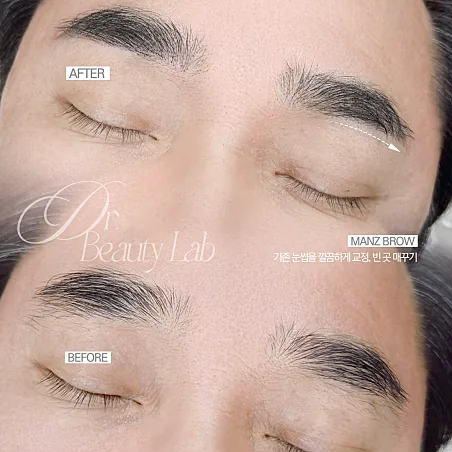
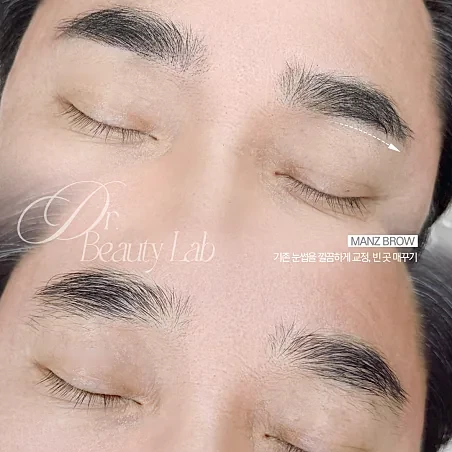
눈썹 전후 사진 통일: 새 남성 사진에 공식 DBL 로고 적용·BEFORE/AFTER 표기 제거, 06번 사진 표기 제거
Claude-Session: https://claude.ai/code/session_01GiNsgprQ5Ba6ws2qEsCy3w

Changed region(s): [[0.1239, 0.1239, 0.2478, 0.1858], [0.1239, 0.7743, 0.2478, 0.8053]]

diff --git a/ja/brow/index.html b/ja/brow/index.html
@@ -435,7 +435,7 @@ body,.wrap *{word-break:normal;line-break:strict;overflow-wrap:anywhere}
   <section>
     <p class="lbl">RESULT</p>
     <h2>言葉より伝わる<br>実際の施術例</h2>
-    <div class="slider"><figure class="slide"><img src="/assets/brow-result-01.webp" alt="女性 · 毛並み眉 施術前後" loading="lazy"><span>女性 · 毛並み眉 施術前後</span></figure><figure class="slide"><img src="/assets/brow-result-02.webp" alt="毛並み眉 · 施術後" loading="lazy"><span>毛並み眉 · 施術後</span></figure><figure class="slide"><img src="/assets/brow-result-03.webp" alt="毛並み眉 · 毛並みのクローズアップ" loading="lazy"><span>毛並み眉 · 毛並みのクローズアップ</span></figure><figure class="slide"><img src="/assets/brow-result-04.webp" alt="毛並み眉 · 施術後クローズアップ" loading="lazy"><span>毛並み眉 · 施術後クローズアップ</span></figure><figure class="slide"><img src="/assets/brow-result-05.webp" alt="男性 · 眉 施術前後" loading="lazy"><span>男性 · 眉 施術前後</span></figure><figure class="slide"><img src="/assets/brow-result-06.webp" alt="男性 · 既存の眉の修正 + すき間の補正" loading="lazy"><span>男性 · 既存の眉の修正 + すき間の補正</span></figure><figure class="slide"><img src="/assets/brow-result-07.webp?v=2" alt="男性 · 眉 施術前後" loading="lazy"><span>男性 · 眉 施術前後</span></figure></div>
+    <div class="slider"><figure class="slide"><img src="/assets/brow-result-01.webp" alt="女性 · 毛並み眉 施術前後" loading="lazy"><span>女性 · 毛並み眉 施術前後</span></figure><figure class="slide"><img src="/assets/brow-result-02.webp" alt="毛並み眉 · 施術後" loading="lazy"><span>毛並み眉 · 施術後</span></figure><figure class="slide"><img src="/assets/brow-result-03.webp" alt="毛並み眉 · 毛並みのクローズアップ" loading="lazy"><span>毛並み眉 · 毛並みのクローズアップ</span></figure><figure class="slide"><img src="/assets/brow-result-04.webp" alt="毛並み眉 · 施術後クローズアップ" loading="lazy"><span>毛並み眉 · 施術後クローズアップ</span></figure><figure class="slide"><img src="/assets/brow-result-05.webp" alt="男性 · 眉 施術前後" loading="lazy"><span>男性 · 眉 施術前後</span></figure><figure class="slide"><img src="/assets/brow-result-06.webp?v=2" alt="男性 · 既存の眉の修正 + すき間の補正" loading="lazy"><span>男性 · 既存の眉の修正 + すき間の補正</span></figure><figure class="slide"><img src="/assets/brow-result-07.webp?v=3" alt="男性 · 眉 施術前後" loading="lazy"><span>男性 · 眉 施術前後</span></figure></div>
     <p class="hint">← スワイプしてご覧ください · 実際の施術例</p>
     <p class="sm" style="margin-top:16px">* 仕上がりと持続期間は、肌質や毛の状態、生活習慣により個人差があります。</p>
   </section>

diff --git a/brow/index.html b/brow/index.html
@@ -425,7 +425,7 @@ details .a{padding:0 0 16px;font-size:13.5px;color:var(--ink-soft);line-height:1
   <section>
     <p class="lbl">RESULT</p>
     <h2>말보다 빠른<br>실제 시술 사례</h2>
-    <div class="slider"><figure class="slide"><img src="/assets/brow-result-01.webp" alt="여성 · 결 브로우 시술 전후" loading="lazy"><span>여성 · 결 브로우 시술 전후</span></figure><figure class="slide"><img src="/assets/brow-result-02.webp" alt="결 브로우 · 시술 후" loading="lazy"><span>결 브로우 · 시술 후</span></figure><figure class="slide"><img src="/assets/brow-result-03.webp" alt="결 브로우 · 결 클로즈업" loading="lazy"><span>결 브로우 · 결 클로즈업</span></figure><figure class="slide"><img src="/assets/brow-result-04.webp" alt="결 브로우 · 시술 후 클로즈업" loading="lazy"><span>결 브로우 · 시술 후 클로즈업</span></figure><figure class="slide"><img src="/assets/brow-result-05.webp" alt="남성 · 눈썹 시술 전후" loading="lazy"><span>남성 · 눈썹 시술 전후</span></figure><figure class="slide"><img src="/assets/brow-result-06.webp" alt="남성 · 기존 눈썹 교정 + 빈 곳 채우기" loading="lazy"><span>남성 · 기존 눈썹 교정 + 빈 곳 채우기</span></figure><figure class="slide"><img src="/assets/brow-result-07.webp?v=2" alt="남성 · 눈썹 시술 전후" loading="lazy"><span>남성 · 눈썹 시술 전후</span></figure></div>
+    <div class="slider"><figure class="slide"><img src="/assets/brow-result-01.webp" alt="여성 · 결 브로우 시술 전후" loading="lazy"><span>여성 · 결 브로우 시술 전후</span></figure><figure class="slide"><img src="/assets/brow-result-02.webp" alt="결 브로우 · 시술 후" loading="lazy"><span>결 브로우 · 시술 후</span></figure><figure class="slide"><img src="/assets/brow-result-03.webp" alt="결 브로우 · 결 클로즈업" loading="lazy"><span>결 브로우 · 결 클로즈업</span></figure><figure class="slide"><img src="/assets/brow-result-04.webp" alt="결 브로우 · 시술 후 클로즈업" loading="lazy"><span>결 브로우 · 시술 후 클로즈업</span></figure><figure class="slide"><img src="/assets/brow-result-05.webp" alt="남성 · 눈썹 시술 전후" loading="lazy"><span>남성 · 눈썹 시술 전후</span></figure><figure class="slide"><img src="/assets/brow-result-06.webp?v=2" alt="남성 · 기존 눈썹 교정 + 빈 곳 채우기" loading="lazy"><span>남성 · 기존 눈썹 교정 + 빈 곳 채우기</span></figure><figure class="slide"><img src="/assets/brow-result-07.webp?v=3" alt="남성 · 눈썹 시술 전후" loading="lazy"><span>남성 · 눈썹 시술 전후</span></figure></div>
     <p class="hint">← 옆으로 넘겨보세요 · 실제 시술 사례</p>
     <p class="sm" style="margin-top:16px">* 시술 결과와 유지 기간은 피부 타입과 모발 상태, 생활 습관에 따라 개인차가 있습니다.</p>
   </section>

diff --git a/ad/ja/brow/index.html b/ad/ja/brow/index.html
@@ -311,7 +311,7 @@ fbq('track','PageView');
   <section>
     <p class="lbl">RESULT</p>
     <h2>言葉より伝わる<br>実際の施術例</h2>
-    <div class="slider"><figure class="slide"><img src="/assets/brow-result-01.webp" alt="女性 · 毛並み眉 施術前後" loading="lazy"><span>女性 · 毛並み眉 施術前後</span></figure><figure class="slide"><img src="/assets/brow-result-02.webp" alt="毛並み眉 · 施術後" loading="lazy"><span>毛並み眉 · 施術後</span></figure><figure class="slide"><img src="/assets/brow-result-03.webp" alt="毛並み眉 · 毛並みのクローズアップ" loading="lazy"><span>毛並み眉 · 毛並みのクローズアップ</span></figure><figure class="slide"><img src="/assets/brow-result-04.webp" alt="毛並み眉 · 施術後クローズアップ" loading="lazy"><span>毛並み眉 · 施術後クローズアップ</span></figure><figure class="slide"><img src="/assets/brow-result-05.webp" alt="男性 · 眉 施術前後" loading="lazy"><span>男性 · 眉 施術前後</span></figure><figure class="slide"><img src="/assets/brow-result-06.webp" alt="男性 · 既存の眉の修正 + すき間の補正" loading="lazy"><span>男性 · 既存の眉の修正 + すき間の補正</span></figure><figure class="slide"><img src="/assets/brow-result-07.webp?v=2" alt="男性 · 眉 施術前後" loading="lazy"><span>男性 · 眉 施術前後</span></figure></div>
+    <div class="slider"><figure class="slide"><img src="/assets/brow-result-01.webp" alt="女性 · 毛並み眉 施術前後" loading="lazy"><span>女性 · 毛並み眉 施術前後</span></figure><figure class="slide"><img src="/assets/brow-result-02.webp" alt="毛並み眉 · 施術後" loading="lazy"><span>毛並み眉 · 施術後</span></figure><figure class="slide"><img src="/assets/brow-result-03.webp" alt="毛並み眉 · 毛並みのクローズアップ" loading="lazy"><span>毛並み眉 · 毛並みのクローズアップ</span></figure><figure class="slide"><img src="/assets/brow-result-04.webp" alt="毛並み眉 · 施術後クローズアップ" loading="lazy"><span>毛並み眉 · 施術後クローズアップ</span></figure><figure class="slide"><img src="/assets/brow-result-05.webp" alt="男性 · 眉 施術前後" loading="lazy"><span>男性 · 眉 施術前後</span></figure><figure class="slide"><img src="/assets/brow-result-06.webp?v=2" alt="男性 · 既存の眉の修正 + すき間の補正" loading="lazy"><span>男性 · 既存の眉の修正 + すき間の補正</span></figure><figure class="slide"><img src="/assets/brow-result-07.webp?v=3" alt="男性 · 眉 施術前後" loading="lazy"><span>男性 · 眉 施術前後</span></figure></div>
     <p class="hint">← スワイプしてご覧ください · 実際の施術例</p>
     <p class="sm" style="margin-top:16px">* 仕上がりと持続期間は、肌質や毛の状態、生活習慣により個人差があります。</p>
   </section>

diff --git a/ad/brow/index.html b/ad/brow/index.html
@@ -309,7 +309,7 @@ fbq('track','PageView');
   <section>
     <p class="lbl">RESULT</p>
     <h2>말보다 빠른<br>실제 시술 사례</h2>
-    <div class="slider"><figure class="slide"><img src="/assets/brow-result-01.webp" alt="여성 · 결 브로우 시술 전후" loading="lazy"><span>여성 · 결 브로우 시술 전후</span></figure><figure class="slide"><img src="/assets/brow-result-02.webp" alt="결 브로우 · 시술 후" loading="lazy"><span>결 브로우 · 시술 후</span></figure><figure class="slide"><img src="/assets/brow-result-03.webp" alt="결 브로우 · 결 클로즈업" loading="lazy"><span>결 브로우 · 결 클로즈업</span></figure><figure class="slide"><img src="/assets/brow-result-04.webp" alt="결 브로우 · 시술 후 클로즈업" loading="lazy"><span>결 브로우 · 시술 후 클로즈업</span></figure><figure class="slide"><img src="/assets/brow-result-05.webp" alt="남성 · 눈썹 시술 전후" loading="lazy"><span>남성 · 눈썹 시술 전후</span></figure><figure class="slide"><img src="/assets/brow-result-06.webp" alt="남성 · 기존 눈썹 교정 + 빈 곳 채우기" loading="lazy"><span>남성 · 기존 눈썹 교정 + 빈 곳 채우기</span></figure><figure class="slide"><img src="/assets/brow-result-07.webp?v=2" alt="남성 · 눈썹 시술 전후" loading="lazy"><span>남성 · 눈썹 시술 전후</span></figure></div>
+    <div class="slider"><figure class="slide"><img src="/assets/brow-result-01.webp" alt="여성 · 결 브로우 시술 전후" loading="lazy"><span>여성 · 결 브로우 시술 전후</span></figure><figure class="slide"><img src="/assets/brow-result-02.webp" alt="결 브로우 · 시술 후" loading="lazy"><span>결 브로우 · 시술 후</span></figure><figure class="slide"><img src="/assets/brow-result-03.webp" alt="결 브로우 · 결 클로즈업" loading="lazy"><span>결 브로우 · 결 클로즈업</span></figure><figure class="slide"><img src="/assets/brow-result-04.webp" alt="결 브로우 · 시술 후 클로즈업" loading="lazy"><span>결 브로우 · 시술 후 클로즈업</span></figure><figure class="slide"><img src="/assets/brow-result-05.webp" alt="남성 · 눈썹 시술 전후" loading="lazy"><span>남성 · 눈썹 시술 전후</span></figure><figure class="slide"><img src="/assets/brow-result-06.webp?v=2" alt="남성 · 기존 눈썹 교정 + 빈 곳 채우기" loading="lazy"><span>남성 · 기존 눈썹 교정 + 빈 곳 채우기</span></figure><figure class="slide"><img src="/assets/brow-result-07.webp?v=3" alt="남성 · 눈썹 시술 전후" loading="lazy"><span>남성 · 눈썹 시술 전후</span></figure></div>
     <p class="hint">← 옆으로 넘겨보세요 · 실제 시술 사례</p>
     <p class="sm" style="margin-top:16px">* 시술 결과와 유지 기간은 피부 타입과 모발 상태, 생활 습관에 따라 개인차가 있습니다.</p>
   </section>

diff --git a/en/brow/index.html b/en/brow/index.html
@@ -433,7 +433,7 @@ details .a{padding:0 0 16px;font-size:13.5px;color:var(--ink-soft);line-height:1
   <section>
     <p class="lbl">RESULT</p>
     <h2>Let the results<br>speak</h2>
-    <div class="slider"><figure class="slide"><img src="/assets/brow-result-01.webp" alt="Female · Hair-stroke brows, before &amp; after" loading="lazy"><span>Female · Hair-stroke brows, before &amp; after</span></figure><figure class="slide"><img src="/assets/brow-result-02.webp" alt="Hair-stroke brows · After" loading="lazy"><span>Hair-stroke brows · After</span></figure><figure class="slide"><img src="/assets/brow-result-03.webp" alt="Hair-stroke brows · Close-up of strokes" loading="lazy"><span>Hair-stroke brows · Close-up of strokes</span></figure><figure class="slide"><img src="/assets/brow-result-04.webp" alt="Hair-stroke brows · Close-up after" loading="lazy"><span>Hair-stroke brows · Close-up after</span></figure><figure class="slide"><img src="/assets/brow-result-05.webp" alt="Male · Brows before &amp; after" loading="lazy"><span>Male · Brows before &amp; after</span></figure><figure class="slide"><img src="/assets/brow-result-06.webp" alt="Male · Reshaping + filling gaps" loading="lazy"><span>Male · Reshaping + filling gaps</span></figure><figure class="slide"><img src="/assets/brow-result-07.webp?v=2" alt="Male · Brows before &amp; after" loading="lazy"><span>Male · Brows before &amp; after</span></figure></div>
+    <div class="slider"><figure class="slide"><img src="/assets/brow-result-01.webp" alt="Female · Hair-stroke brows, before &amp; after" loading="lazy"><span>Female · Hair-stroke brows, before &amp; after</span></figure><figure class="slide"><img src="/assets/brow-result-02.webp" alt="Hair-stroke brows · After" loading="lazy"><span>Hair-stroke brows · After</span></figure><figure class="slide"><img src="/assets/brow-result-03.webp" alt="Hair-stroke brows · Close-up of strokes" loading="lazy"><span>Hair-stroke brows · Close-up of strokes</span></figure><figure class="slide"><img src="/assets/brow-result-04.webp" alt="Hair-stroke brows · Close-up after" loading="lazy"><span>Hair-stroke brows · Close-up after</span></figure><figure class="slide"><img src="/assets/brow-result-05.webp" alt="Male · Brows before &amp; after" loading="lazy"><span>Male · Brows before &amp; after</span></figure><figure class="slide"><img src="/assets/brow-result-06.webp?v=2" alt="Male · Reshaping + filling gaps" loading="lazy"><span>Male · Reshaping + filling gaps</span></figure><figure class="slide"><img src="/assets/brow-result-07.webp?v=3" alt="Male · Brows before &amp; after" loading="lazy"><span>Male · Brows before &amp; after</span></figure></div>
     <p class="hint">← Swipe · Real client results</p>
     <p class="sm" style="margin-top:16px">* Results and longevity vary with skin type, hair condition and lifestyle.</p>
   </section>

diff --git a/zh-tw/brow/index.html b/zh-tw/brow/index.html
@@ -435,7 +435,7 @@ body,.wrap *{word-break:normal;line-break:strict;overflow-wrap:anywhere}
   <section>
     <p class="lbl">RESULT</p>
     <h2>比言語更有說服力的<br>真實案例</h2>
-    <div class="slider"><figure class="slide"><img src="/assets/brow-result-01.webp" alt="女性 · 毛流眉 施作前後" loading="lazy"><span>女性 · 毛流眉 施作前後</span></figure><figure class="slide"><img src="/assets/brow-result-02.webp" alt="毛流眉 · 施作後" loading="lazy"><span>毛流眉 · 施作後</span></figure><figure class="slide"><img src="/assets/brow-result-03.webp" alt="毛流眉 · 毛流特寫" loading="lazy"><span>毛流眉 · 毛流特寫</span></figure><figure class="slide"><img src="/assets/brow-result-04.webp" alt="毛流眉 · 施作後特寫" loading="lazy"><span>毛流眉 · 施作後特寫</span></figure><figure class="slide"><img src="/assets/brow-result-05.webp" alt="男性 · 眉毛 施作前後" loading="lazy"><span>男性 · 眉毛 施作前後</span></figure><figure class="slide"><img src="/assets/brow-result-06.webp" alt="男性 · 修正原有眉型 + 補空缺" loading="lazy"><span>男性 · 修正原有眉型 + 補空缺</span></figure><figure class="slide"><img src="/assets/brow-result-07.webp?v=2" alt="男性 · 眉毛 施作前後" loading="lazy"><span>男性 · 眉毛 施作前後</span></figure></div>
+    <div class="slider"><figure class="slide"><img src="/assets/brow-result-01.webp" alt="女性 · 毛流眉 施作前後" loading="lazy"><span>女性 · 毛流眉 施作前後</span></figure><figure class="slide"><img src="/assets/brow-result-02.webp" alt="毛流眉 · 施作後" loading="lazy"><span>毛流眉 · 施作後</span></figure><figure class="slide"><img src="/assets/brow-result-03.webp" alt="毛流眉 · 毛流特寫" loading="lazy"><span>毛流眉 · 毛流特寫</span></figure><figure class="slide"><img src="/assets/brow-result-04.webp" alt="毛流眉 · 施作後特寫" loading="lazy"><span>毛流眉 · 施作後特寫</span></figure><figure class="slide"><img src="/assets/brow-result-05.webp" alt="男性 · 眉毛 施作前後" loading="lazy"><span>男性 · 眉毛 施作前後</span></figure><figure class="slide"><img src="/assets/brow-result-06.webp?v=2" alt="男性 · 修正原有眉型 + 補空缺" loading="lazy"><span>男性 · 修正原有眉型 + 補空缺</span></figure><figure class="slide"><img src="/assets/brow-result-07.webp?v=3" alt="男性 · 眉毛 施作前後" loading="lazy"><span>男性 · 眉毛 施作前後</span></figure></div>
     <p class="hint">← 向左滑動 · 真實施作案例</p>
     <p class="sm" style="margin-top:16px">* 施作效果與維持時間，會因膚質、毛髮狀態與生活習慣而有個人差異。</p>
   </section>
